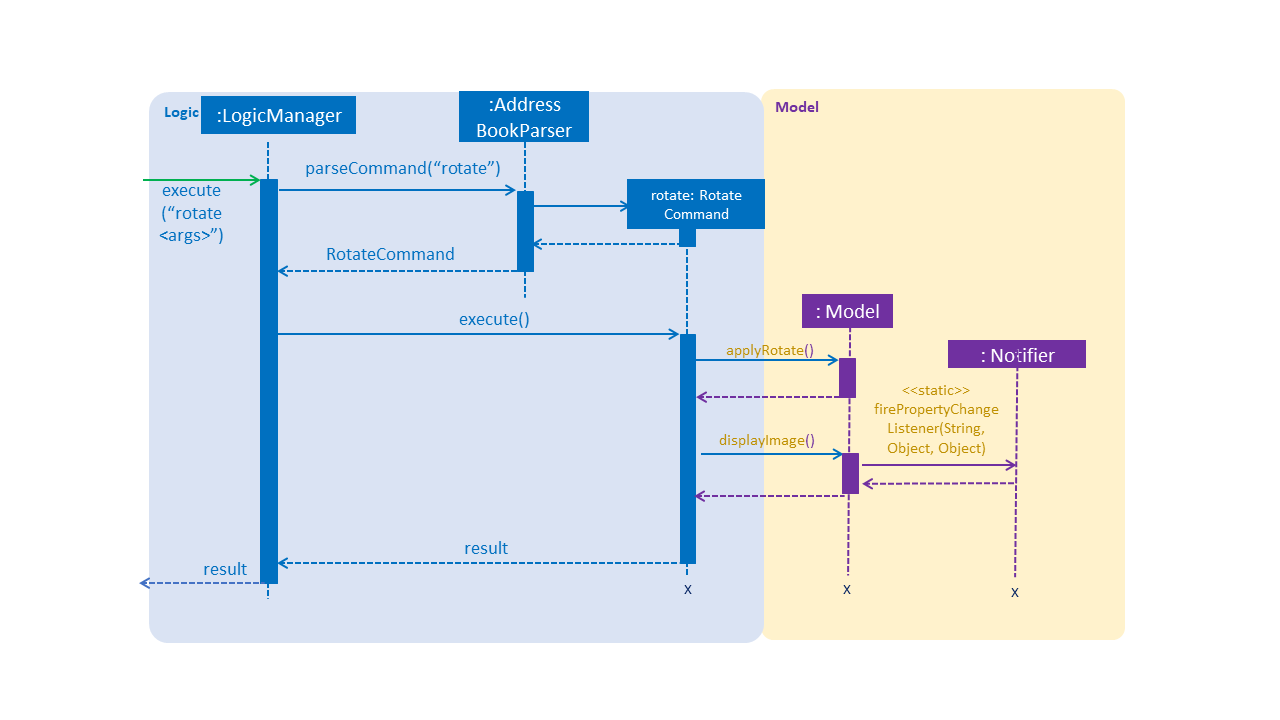
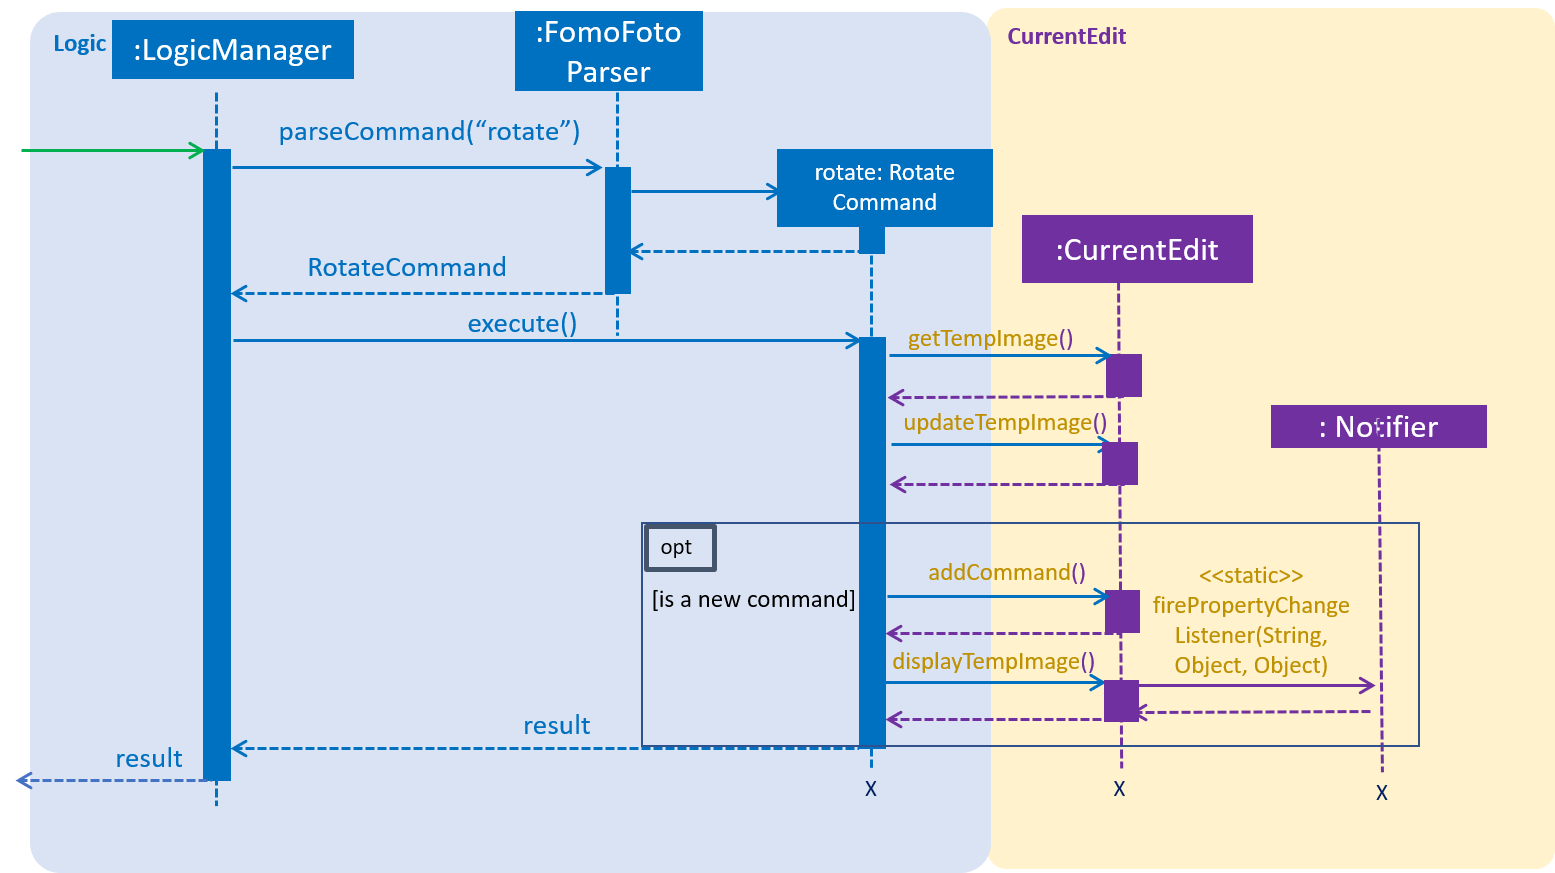
Rebuild pages at 7db3795f50f0ca625d0c2b0e99df44d3a080d3b8

diff --git a/DeveloperGuide.html b/DeveloperGuide.html
@@ -719,7 +719,7 @@ As a more OOP model, we can store a <code>Tag</code> list in <code>Address Book<
 <div class="sect3">
 <h4 id="current-implementation-3"><a class="link" href="#current-implementation-3">3.3.1. Current Implementation</a></h4>
 <div class="paragraph">
-<p>The filter mechanism is facilitated by <a href="https://github.com/sksamuel/scrimage" class="bare">https://github.com/sksamuel/scrimage</a> [<code>scrimage</code>], an external API Library that provides image filters methods for our image editor. The gradle script declares a compile-time dependency on this external API through the coordinates:  <code>group: 'com.sksamuel.scrimage'</code>, <code>name: 'scrimage-filters_2.12'</code>, <code>version: '3.0.0-alpha4'</code>.</p>
+<p>The filter mechanism is facilitated by <a href="https://github.com/sksamuel/scrimage"><code>scrimage</code></a>, an external API Library that provides image filters methods for our image editor. The gradle script declares a compile-time dependency on this external API through the coordinates:  <code>group: 'com.sksamuel.scrimage'</code>, <code>name: 'scrimage-filters_2.12'</code>, <code>version: '3.0.0-alpha4'</code>.</p>
 </div>
 <div class="paragraph">
 <p>The filter feature mainly consists of:</p>
@@ -844,39 +844,60 @@ If an invalid command is provided, a reminder of how to use the command will be 
 <div class="ulist">
 <ul>
 <li>
-<p><code>rotateCommand</code>: Allows user to rotate images by specifying a degree (90, 180 or 270 only).</p>
+<p><code>RotateCommand</code>: Allows user to rotate images by specifying a degree (90, 180 or 270 only).</p>
 </li>
 <li>
-<p><code>cropCommand</code>: Allows user to crop images by specifying the coordinates of the top left corner, the width and the height of the desired cropped image.</p>
+<p><code>CropCommand</code>: Allows user to crop images by specifying the coordinates of the top left corner, the width and the height of the desired cropped image.</p>
 </li>
 <li>
-<p><code>resizeCommand</code>: Allows user to resize images to the desired size while maintaining the proportions.</p>
+<p><code>resizeCommand</code>: Allows user to resize images to the desired width and height.</p>
 </li>
 </ul>
+</div>
+<div class="paragraph">
+<p>The follwing describes main operations and processes for each command stated above.</p>
 </div>
 </div>
 <div class="sect3">
 <h4 id="rotate-command"><a class="link" href="#rotate-command">3.4.2. Rotate Command</a></h4>
 <div class="paragraph">
-<p>This command allows the user to rotate images by specifying a degree (90, 180 or 270 only). Upon receiving an input degree by the user, the degree will be checked for its validity and will throw an error if the degree is not within the specified range. The command will then be added to the <code>Image&#8217;s `List&lt;EditCommands&gt;</code> which saves the editing history of the targetted image.</p>
+<p>This command allows the user to rotate the targetted image by specifying a degree (90, 180 or 270 only). Upon receiving an input degree by the user, the degree will be checked for its validity and will throw an error if the degree is not within the specified range. The command will then be added to the <code>List&lt;Commands&gt;</code> belonging to <code>tempImage</code> found in <code>currentEdit</code> which saves the editing history of the targetted image.</p>
 </div>
 <div class="paragraph">
-<p>Given below is an example usage scenario and how the command should behave at each step:</p>
+<p>Given below is an example usage scenario and how the command should behave at each step [This applies to the other image manipulation commands as well.]:</p>
 </div>
 <div class="paragraph">
-<p>Step 1. When the users run the application and open an image to edit, a new <code>Image</code> object is created which stores the filename of the image,  history of edits <code>List&lt;EditCommand&gt;</code> and the image&#8217;s metadata. This <code>Image</code> object will be set as the <code>currentImage</code> in the <code>Model</code> for editing.</p>
+<p>Step 1. When the user runs an open command to edit an image, it invokes a method which creates an instance of an <code>Image</code> that stores the filepath of the image, its history of edits <code>List&lt;Command&gt;</code> and its metadata. This <code>Image</code> object is saved under the variable name <code>tempImage</code> in <code>currentEdit</code> for editing.</p>
 </div>
 <div class="paragraph">
 <p>Step 2. When the user enters the command (e.g. <code>rotate 90</code>), the entered command is parsed and the command will be executed.</p>
 </div>
-<div class="paragraph">
-<p>Step 3. During execution, the <code>execute</code> method in the <code>rotateCommand</code> class calls for the methods <code>applyRotate</code> and <code>displayImage</code> in <code>Model</code>.</p>
+<div class="admonitionblock note">
+<table>
+<tr>
+<td class="icon">
+<i class="fa icon-note" title="Note"></i>
+</td>
+<td class="content">
+If an invalid command is provided, a reminder of how to use the command will be given to the user and no command will be run.
+</td>
+</tr>
+</table>
 </div>
 <div class="paragraph">
-<p>Step 4. The method <code>applyRotate</code> calls the external library <a href="https://github.com/rkalla/imgscalr"><code>ImgScalr</code></a>'s class <code>rotate</code> which is applied on the image with the filepath <code>src/main/resources/temp/</code> + <code>currentImage#getFileName()</code></p>
+<p>Step 3. During execution, the <code>execute</code> method in the <code>RotateCommand</code> class invokes <code>currentEdit#getTempIMage()</code> to get the <code>tempImage</code> from the <code>currentEdit</code>.</p>
 </div>
 <div class="paragraph">
-<p>Step 5. The method <code>displayImage</code> updates the user interface and the user interface will now display the image with the filepath <code>src/main/resources/temp/</code> + <code>currentImage.getFileName()</code></p>
+<p>Step 4. Upon retrieving the <code>tempImage</code>, the <code>execute</code> method in <code>RotateCommand</code> gets a <code>BufferedImage</code> instance from <code>tempImage</code>.The method then calls the external library <a href="https://github.com/rkalla/imgscalr"><code>ImgScalr</code></a>'s class <code>rotate</code> and passes the <code>BufferedImage</code> object in.</p>
+</div>
+<div class="paragraph">
+<p>Step 5. A <code>BufferedImage</code> object is returned from the external library and <code>currentEdit#updateTempImage()</code> is invoked to overwrite the current image in the filepath: "src/main/resources/temp/" + <code>tempImage#getUrl</code> with a new <code>BufferedImage</code> object.</p>
+</div>
+<div class="paragraph">
+<p>Step 6. The <code>execute</code> method then checks if the boolean <code>isNewCommand</code> is true. If it is true, it indicates that the command is a new rotate command called directly from the user and not through an undo/redo command which triggers Step 7 in the line below. Otherwise, the command’s execution ends in this step.</p>
+</div>
+<div class="paragraph">
+<p>Step 7. <code>isNewCommand</code> is set to false to signal that this command is not a new rotate command if it is executed again through the <code>undo/redo</code> function. <code>currentEdit#addCommand(this)</code> is invoked to add this command to the <code>List&lt;Command&gt;</code> in <code>tempImage</code> for the <code>undo/redo</code> function and <code>currentEdit#displayTempImage()</code> is used to display the edited image on the graphical user interface.</p>
 </div>
 </div>
 <div class="sect3">
@@ -886,16 +907,43 @@ If an invalid command is provided, a reminder of how to use the command will be 
 <li>
 <p>Intermediate images have to be stored and edited in a temp folder first due to our <code>undo/redo</code> implementation.</p>
 </li>
-<li>
-<p>Furthermore, there was an attempt to self-implement the rotation feature, and thus allows the user to input a range of degree values from 0 to 360. However, there were issues with the saving images of odd sizes and we hence decided against it.</p>
-</li>
 </ul>
 </div>
 <div class="imageblock">
 <div class="content">
-<img src="images/RotateCommandSequenceDiagram.png" alt="RotateCommandSequenceDiagram" width="1280">
+<img src="images/RotateCommandSequenceDiagram.png" alt="RotateCommandSequenceDiagram" width="800">
 </div>
 <div class="title">Figure 14. Sequence Diagram for Rotate Command</div>
+</div>
+</div>
+<div class="sect3">
+<h4 id="crop-command"><a class="link" href="#crop-command">3.4.4. Crop Command</a></h4>
+<div class="paragraph">
+<p>This command allows the user to crop the targetted image by specifying the coordinates of the top left hand corner of the desired image, the width of the desired image and the height of the desired image. Upon receiving the inputs, the values will be checked for their validity and will throw an error if the any value is not within the specified range. The command will then be added to the <code>List&lt;Commands&gt;</code> belonging to <code>tempImage</code> found in <code>currentEdit</code> which saves the editing history of the targetted image.</p>
+</div>
+<div class="paragraph">
+<p>Refer to the example usage scenario and design considerations in <a href="#rotate-command">Section 3.4.2, &#8220;Rotate Command&#8221;</a></p>
+</div>
+<div class="imageblock">
+<div class="content">
+<img src="images/CropCommandSequenceDiagram.png" alt="CropCommandSequenceDiagram" width="800">
+</div>
+<div class="title">Figure 15. Sequence Diagram for Crop Command</div>
+</div>
+</div>
+<div class="sect3">
+<h4 id="resize-command"><a class="link" href="#resize-command">3.4.5. Resize Command</a></h4>
+<div class="paragraph">
+<p>This command allows the user to resize the targetted image by specifying the width and height of the desired image. Upon receiving the inputs, the values will be checked for their validity and will throw an error if any value is not within the specified range. The command will then be added to the <code>List&lt;Commands&gt;</code> belonging to <code>tempImage</code> found in <code>currentEdit</code> which saves the editing history of the targetted image.</p>
+</div>
+<div class="paragraph">
+<p>Refer to the example usage scenario and design considerations in <a href="#rotate-command">Section 3.4.2, &#8220;Rotate Command&#8221;</a></p>
+</div>
+<div class="imageblock">
+<div class="content">
+<img src="images/ResizeCommandSequenceDiagram.png" alt="ResizeCommandSequenceDiagram" width="800">
+</div>
+<div class="title">Figure 16. Sequence Diagram for Resize Command</div>
 </div>
 </div>
 </div>
@@ -1215,7 +1263,7 @@ Alternatively, you can download the AsciiDoc plugin for IntelliJ, which allows y
 <div class="content">
 <img src="images/chrome_save_as_pdf.png" alt="chrome save as pdf" width="300">
 </div>
-<div class="title">Figure 15. Saving documentation as PDF files in Chrome</div>
+<div class="title">Figure 17. Saving documentation as PDF files in Chrome</div>
 </div>
 </div>
 <div class="sect2">
@@ -2701,4 +2749,4 @@ Expected: Similar to previous.</p>
 </div>
 </div>
 </div>
-</div></div><div id="footer"><div class="container"><div id="footer-text">Last updated 2019-03-31 08:59:36 UTC</div></div></div></body></html>
+</div></div><div id="footer"><div class="container"><div id="footer-text">Last updated 2019-03-31 12:25:49 UTC</div></div></div></body></html>

diff --git a/HelpWindow.html b/HelpWindow.html
@@ -61,7 +61,7 @@
 <p>Double-click the file to start the app. The GUI should appear in a few seconds.</p>
 <div class="imageblock">
 <div class="content">
-<img src="images/Ui.png" alt="Ui" width="790">
+<img src="images/Ui.PNG" alt="Ui" width="800">
 </div>
 <div class="title">Figure 1. Home Page of FomoFoto</div>
 </div>
@@ -560,4 +560,4 @@ e.g. <code>save MyNewImage.png</code><br></p>
 </ul>
 </div>
 </div>
-</div></div><div id="footer"><div class="container"><div id="footer-text">Last updated 2019-03-31 08:59:36 UTC</div></div></div></body></html>
+</div></div><div id="footer"><div class="container"><div id="footer-text">Last updated 2019-03-31 12:25:49 UTC</div></div></div></body></html>

diff --git a/UserGuide.html b/UserGuide.html
@@ -61,7 +61,7 @@
 <p>Double-click the file to start the app. The GUI should appear in a few seconds.</p>
 <div class="imageblock">
 <div class="content">
-<img src="images/Ui.png" alt="Ui" width="790">
+<img src="images/Ui.PNG" alt="Ui" width="800">
 </div>
 <div class="title">Figure 1. Home Page of FomoFoto</div>
 </div>
@@ -560,4 +560,4 @@ e.g. <code>save MyNewImage.png</code><br></p>
 </ul>
 </div>
 </div>
-</div></div><div id="footer"><div class="container"><div id="footer-text">Last updated 2019-03-31 08:59:36 UTC</div></div></div></body></html>
+</div></div><div id="footer"><div class="container"><div id="footer-text">Last updated 2019-03-31 12:25:49 UTC</div></div></div></body></html>

diff --git a/team/johndoe.html b/team/johndoe.html
@@ -378,4 +378,4 @@ If the <code>index</code> is at index <code>commandHistory.size()</code>, pointi
 <p><em>{Optionally, you may include other projects in your portfolio.}</em></p>
 </div>
 </div>
-</div></div><div id="footer"><div class="container"><div id="footer-text">Last updated 2019-03-31 08:59:36 UTC</div></div></div></body></html>
+</div></div><div id="footer"><div class="container"><div id="footer-text">Last updated 2019-03-31 12:25:49 UTC</div></div></div></body></html>

diff --git a/LearningOutcomes.html b/LearningOutcomes.html
@@ -549,4 +549,4 @@ When the value represented by the <code>ObservableValue</code> changes, it will 
 </div>
 </div>
 </div>
-</div></div><div id="footer"><div class="container"><div id="footer-text">Last updated 2019-03-31 08:59:36 UTC</div></div></div></body></html>
+</div></div><div id="footer"><div class="container"><div id="footer-text">Last updated 2019-03-31 12:25:49 UTC</div></div></div></body></html>

diff --git a/ContactUs.html b/ContactUs.html
@@ -12,4 +12,4 @@
 <p><strong>Email us</strong> : You can also reach us at <code>kayheen@u.nus.edu</code></p>
 </li>
 </ul>
-</div></div><div id="footer"><div class="container"><div id="footer-text">Last updated 2019-03-31 08:59:36 UTC</div></div></div></body></html>
+</div></div><div id="footer"><div class="container"><div id="footer-text">Last updated 2019-03-31 12:25:49 UTC</div></div></div></body></html>

diff --git a/UsingGradle.html b/UsingGradle.html
@@ -255,4 +255,4 @@ See <code>build.gradle</code> &#8594; <code>allprojects</code> &#8594; <code>dep
 </ul>
 </div>
 </div>
-</div></div><div id="footer"><div class="container"><div id="footer-text">Last updated 2019-03-31 08:59:36 UTC</div></div></div></body></html>
+</div></div><div id="footer"><div class="container"><div id="footer-text">Last updated 2019-03-31 12:25:49 UTC</div></div></div></body></html>

diff --git a/UsingNetlify.html b/UsingNetlify.html
@@ -123,4 +123,4 @@ The publish directory is the directory in which the built HTML documentation res
 </ol>
 </div>
 </div>
-</div></div><div id="footer"><div class="container"><div id="footer-text">Last updated 2019-03-31 08:59:36 UTC</div></div></div></body></html>
+</div></div><div id="footer"><div class="container"><div id="footer-text">Last updated 2019-03-31 12:25:49 UTC</div></div></div></body></html>

diff --git a/UsingCoveralls.html b/UsingCoveralls.html
@@ -96,4 +96,4 @@ If you have not set up Travis CI, see <a href="UsingTravis.html">UsingTravis.ado
 </ol>
 </div>
 </div>
-</div></div><div id="footer"><div class="container"><div id="footer-text">Last updated 2019-03-31 08:59:36 UTC</div></div></div></body></html>
+</div></div><div id="footer"><div class="container"><div id="footer-text">Last updated 2019-03-31 12:25:49 UTC</div></div></div></body></html>

diff --git a/UsingTravis.html b/UsingTravis.html
@@ -277,4 +277,4 @@ Suggested change: Remove the codacy badge from <code>README</code>.</p>
 </div>
 </div>
 </div>
-</div></div><div id="footer"><div class="container"><div id="footer-text">Last updated 2019-03-31 08:59:36 UTC</div></div></div></body></html>
+</div></div><div id="footer"><div class="container"><div id="footer-text">Last updated 2019-03-31 12:25:49 UTC</div></div></div></body></html>

diff --git a/AboutUs.html b/AboutUs.html
@@ -94,4 +94,4 @@ Responsibilities: Documentation, Image Manipulation</p>
 <hr>
 </div>
 </div>
-</div></div><div id="footer"><div class="container"><div id="footer-text">Last updated 2019-03-31 08:59:36 UTC</div></div></div></body></html>
+</div></div><div id="footer"><div class="container"><div id="footer-text">Last updated 2019-03-31 12:25:49 UTC</div></div></div></body></html>

diff --git a/UsingCheckstyle.html b/UsingCheckstyle.html
@@ -91,4 +91,4 @@ Restart the IDE to complete the installation.</p>
 </ul>
 </div>
 </div>
-</div></div><div id="footer"><div class="container"><div id="footer-text">Last updated 2019-03-31 08:59:36 UTC</div></div></div></body></html>
+</div></div><div id="footer"><div class="container"><div id="footer-text">Last updated 2019-03-31 12:25:49 UTC</div></div></div></body></html>
